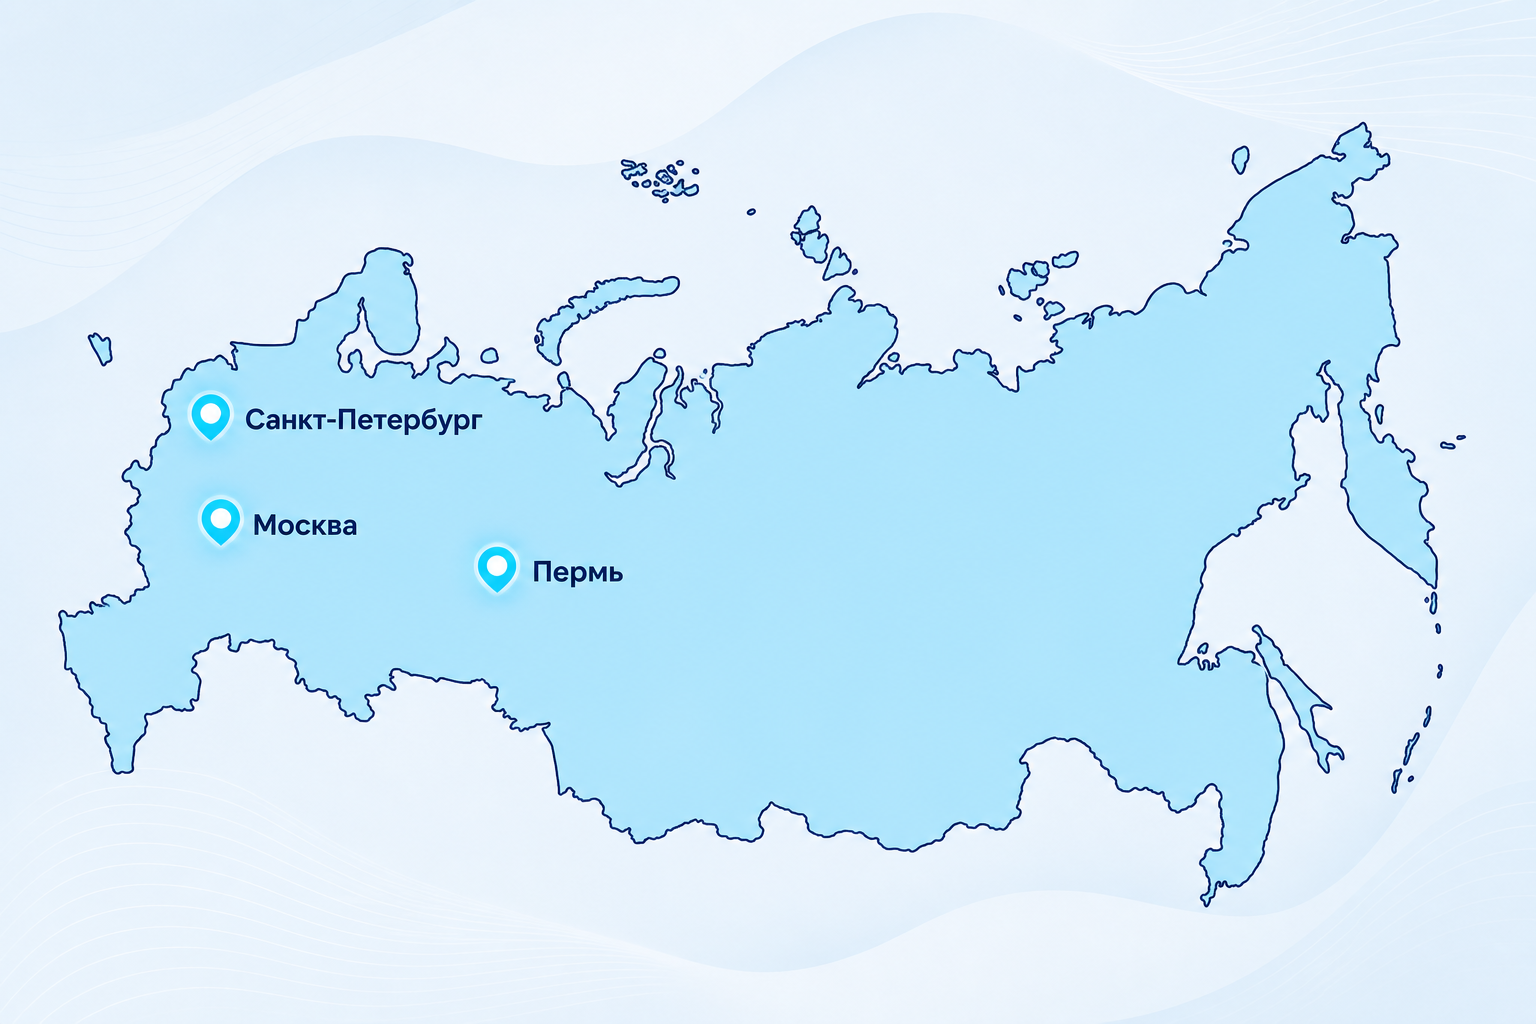
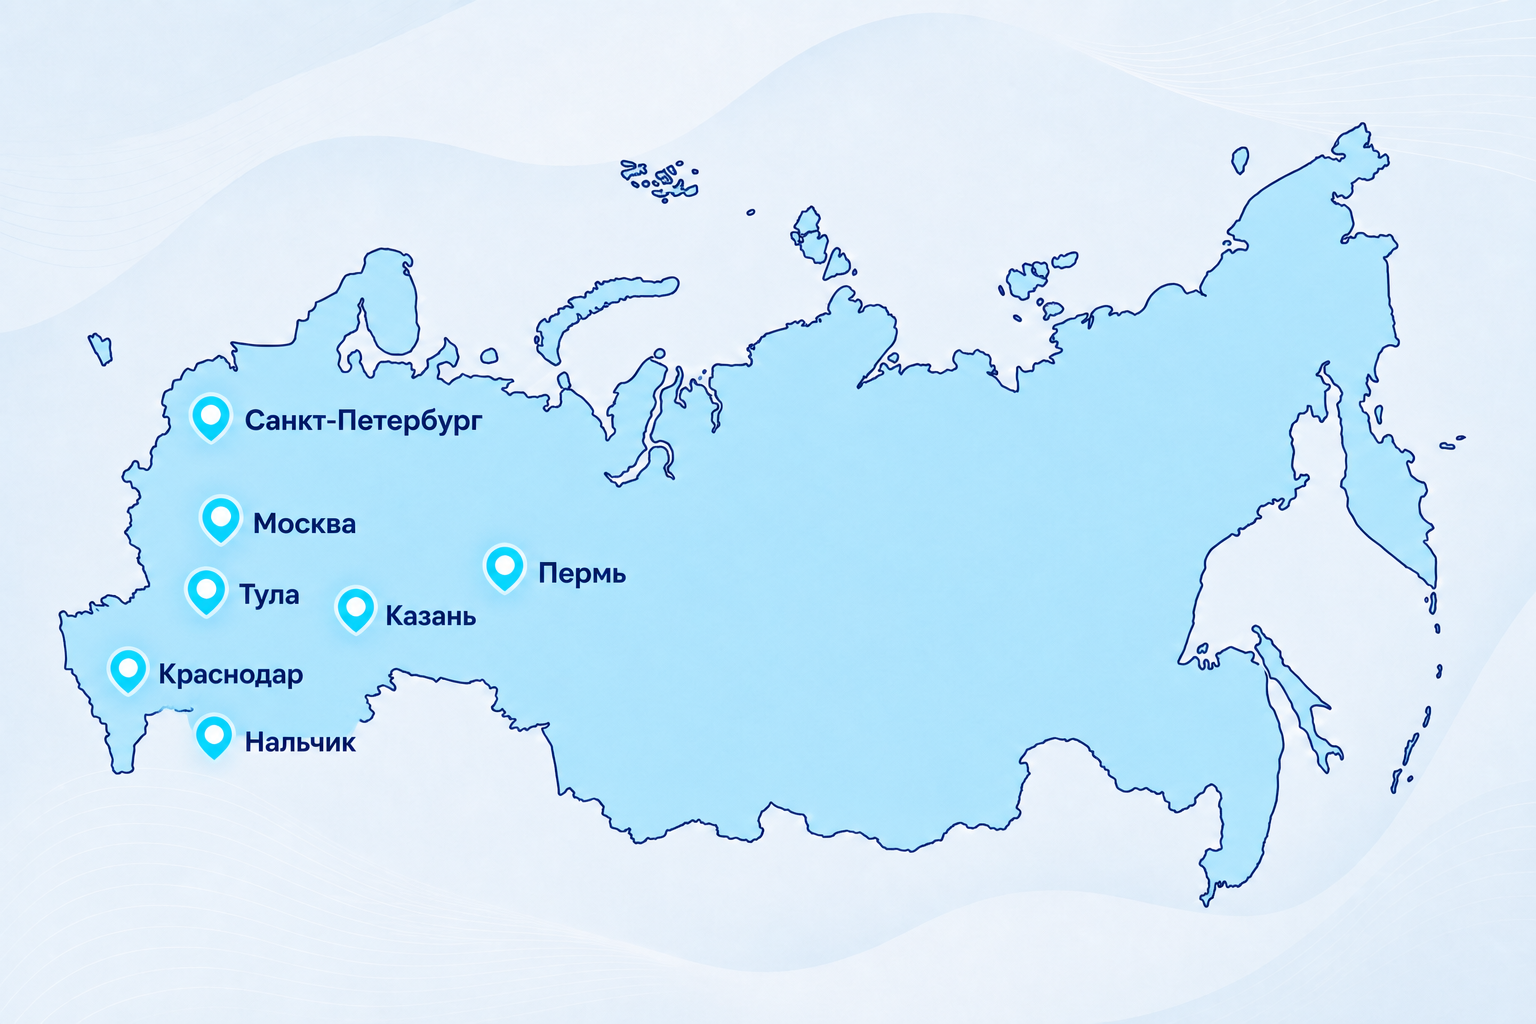
Add Krasnodar, Nalchik, Tula, and Kazan to representatives map.

diff --git a/predstaviteli/index.html b/predstaviteli/index.html
@@ -1,11 +1,11 @@
-<!DOCTYPE html>
+<!DOCTYPE html>
 <html lang="ru">
 <head>
   <meta charset="utf-8" />
   <link rel="icon" href="../favicon.png" />
   <meta name="viewport" content="width=device-width, initial-scale=1" />
   <title>Представители · Tune 🔥</title>
-  <meta name="description" content="Представители Tune 🔥: Москва, Санкт-Петербург, Пермь." />
+  <meta name="description" content="Представители Tune 🔥: Москва, Санкт-Петербург, Пермь, Тула, Казань, Краснодар, Нальчик." />
   <link rel="preconnect" href="https://fonts.googleapis.com" />
   <link rel="preconnect" href="https://fonts.gstatic.com" crossorigin />
   <link href="https://fonts.googleapis.com/css2?family=Nunito:wght@600;700;800;900&display=swap" rel="stylesheet" />
@@ -285,7 +285,7 @@
       <p class="lead" style="margin-top:12px">Готовы стать представителем — пишите в <a href="https://t.me/Publiclvoid" target="_blank" rel="noopener" style="color:var(--primary-dark);text-decoration:underline">@Publiclvoid</a>.</p>
 
       <div class="map-wrap">
-        <img src="russia-cities.png" alt="Карта РФ: Москва, Санкт-Петербург, Пермь" width="1600" height="900" loading="lazy" />
+        <img src="russia-cities.png" alt="Карта РФ: Москва, Санкт-Петербург, Пермь, Тула, Казань, Краснодар, Нальчик" width="1600" height="900" loading="lazy" />
       </div>
 
       <div class="city-list">
@@ -307,6 +307,34 @@
           <div class="city-mark">ПРМ</div>
           <div>
             <strong>Пермь</strong>
+            <span>Представитель</span>
+          </div>
+        </div>
+        <div class="city">
+          <div class="city-mark">ТУЛ</div>
+          <div>
+            <strong>Тула</strong>
+            <span>Представитель</span>
+          </div>
+        </div>
+        <div class="city">
+          <div class="city-mark">КЗН</div>
+          <div>
+            <strong>Казань</strong>
+            <span>Представитель</span>
+          </div>
+        </div>
+        <div class="city">
+          <div class="city-mark">КРД</div>
+          <div>
+            <strong>Краснодар</strong>
+            <span>Представитель</span>
+          </div>
+        </div>
+        <div class="city">
+          <div class="city-mark">НЛЧ</div>
+          <div>
+            <strong>Нальчик</strong>
             <span>Представитель</span>
           </div>
         </div>

diff --git a/index.html b/index.html
@@ -409,7 +409,7 @@
         <div class="mini">
           <div class="ico">📍</div>
           <strong>Города</strong>
-          <span>Москва · Санкт-Петербург · Пермь</span>
+          <span>Москва · Санкт-Петербург · Пермь · Тула · Казань · Краснодар · Нальчик</span>
         </div>
         <div class="mini">
           <div class="ico">💬</div>
